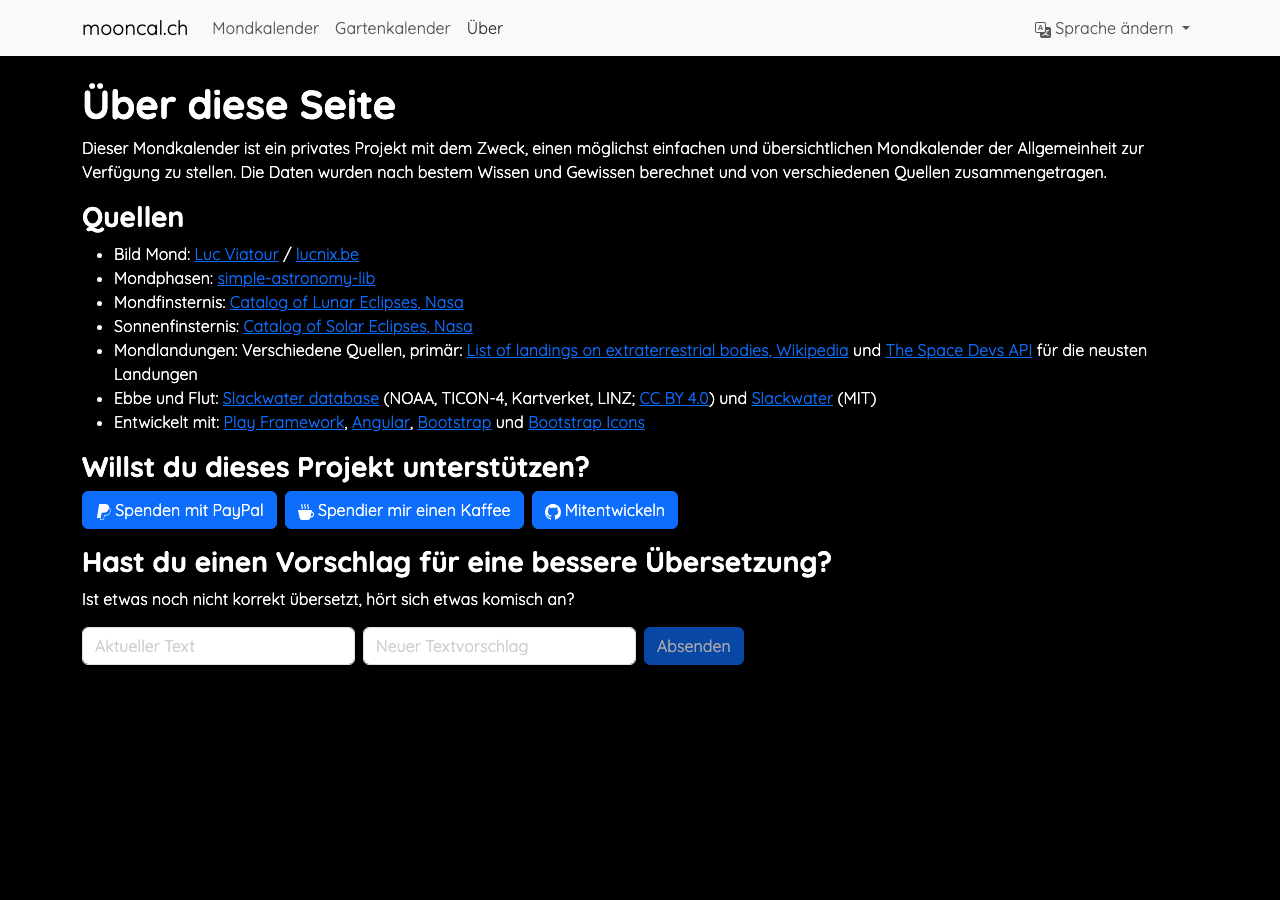
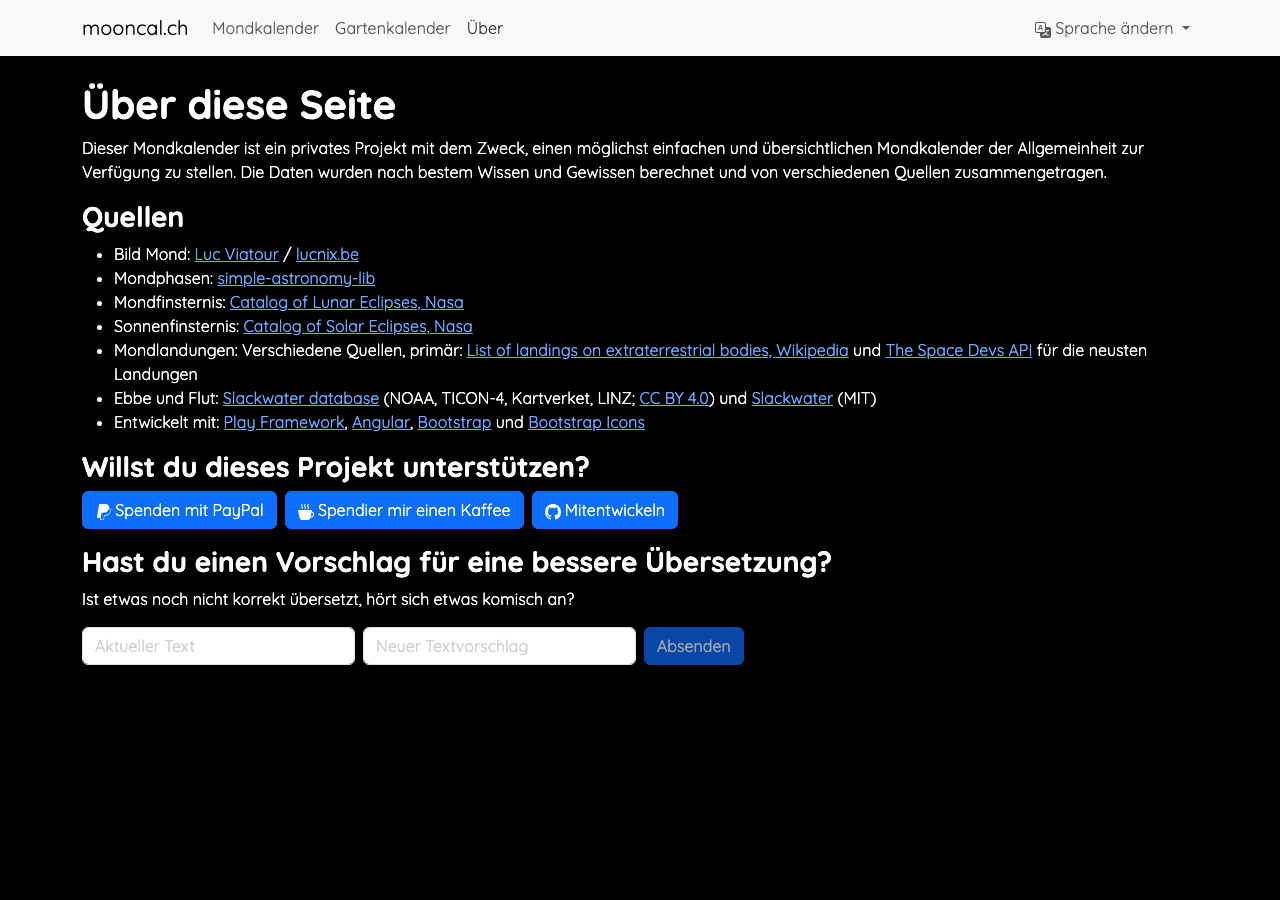
Use lighter link colors that are readable on the dark background

diff --git a/ui/src/styles.scss b/ui/src/styles.scss
@@ -13,6 +13,9 @@ $brightGrey: hsl(0, 0%, 80%);
   $card-color: white,
   $modal-content-color: white,
   $body-secondary-color: rgba(192, 192, 192, 0.75),
+  // Bootstrap's link colors of its dark mode, as the default blue is hard to read on black and the dark grey of cards and dialogs
+  $link-color: #6ea8fe,
+  $link-hover-color: #8bb9fe,
   $font-family-sans-serif: ('Quicksand', sans-serif),
   //$font-family-sans-serif: ('Helvetica Neue', Helvetica, 'Trebuchet MS', 'Lucida Grande', Arial, sans-serif),
   $headings-font-weight: 700
